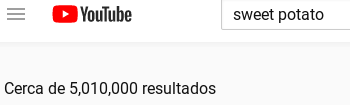
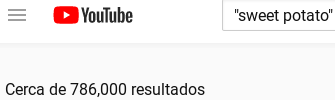
Fix sweet potato bug

diff --git a/falafel_proposal.tex b/falafel_proposal.tex
@@ -73,12 +73,12 @@ North Africa.
 
 Figure \ref{engplot} shows frequencies of various food terms in Google's English-language
 database of user searches.  In this data set, the usage of ``falafel'' is roughly as popular as
-``croissant'', and noticeably more popular than some of the Japanese food emoji
-(see figure).  Figure \ref{engplot} includes ``sweet potato'', which is more popular
+``croissant,'' and noticeably more popular than some of the Japanese food emoji
+(see figure).  Figure \ref{engplot} includes ``sweet potato,'' which is more popular
 in Google's database but clearly seasonal, while Falafel shows consistent usage.
 
 To preserve the scale, ``rice'' was omitted from the plot of English search terms:
-being a basic staple, it was searched on Google 17 times more often than ``falafel''.
+being a basic staple, it was searched on Google 17 times more often than ``falafel.''
 
 \begin{figure}
 \begin{center}
@@ -108,7 +108,7 @@ and English speakers are enamored of croissant photos.
 {\bf English, count} & Bing & Google & YouTube \\\hline
 Falafel  & 6,460 & 25,000 & 301\\
 Rice    & 21,900 & 607,000 & 13,500\\
-Sweet potato & 13,700 & 46,200 & 5,010\\
+Sweet potato & 13,700 & 46,200 & 786\\
 Croissant & 12,100 & 91,800 & 537 \\
 Bento box & 2,160 & 8,760 & 229 \\
 Rice ball & 926 & 1,010 & 154\\
@@ -121,7 +121,7 @@ Rice ball & 926 & 1,010 & 154\\
 
 Falafel  &1.00& 1.00 & 1.00 \\
 Rice    &3.39&24.28 & 44.85 \\
-Sweet potato &2.12& 1.85 & 16.64 \\
+Sweet potato &2.12& 1.85 & 2.61 \\
 Croissant &1.87& 3.67 & 1.78 \\
 Bento box &0.33& 0.35 & 0.76 \\
 Rice ball &0.14& 0.04 & 0.51
@@ -162,8 +162,7 @@ the left, and as a percent of the falafel count to the right.}
 \end{figure}
 
 Figure \ref{counttab} shows the search result counts in three search engines, in English
-and Arabic. Apart from Arabic Google's surprising love of bread and a disproportionate
-number of English-language videos about sweet potatoes, the results here largely
+and Arabic. Apart from Arabic Google's anomalous count for bread, the results largely
 follow those from the trend lines: in English, falafel result counts are behind but
 on the same order of magnitude as sweet potatoes and croissants, while in Arabic, the
 falafel result counts are behind but on the same order of magnitude as rice and bread.
@@ -247,7 +246,10 @@ or even the times of the pharoas.
 into unambiguous representations of a falafel wrap or pita.
 
 \section{Appendix}
-The specifications for emoji proposals require screen shots of searches in several search engines. These are provided here for reference. The counts are transcribed from here to Table \ref{counttab}.
+The specifications for emoji proposals require screen shots of searches in several
+search engines. These are provided here for reference. The counts are transcribed from
+here to Table \ref{counttab}. As per the specification, these searches were done in a
+browser's privacy mode 
 
 \def\ss#1#2#3{\includegraphics[width=#3]{search_shots/#1-#2.png}}
 \def\row#1#2{#1&\ss{b}{#2}{2.5cm}& \ss{g}{#2}{3.4cm}& \ss{y}{#2}{4.5cm}\\\hline}
@@ -278,15 +280,15 @@ The specifications for emoji proposals require screen shots of searches in sever
  & Bing & Google &YouTube\\
 \hline
 %\<ﻑﻼﻔﻟ> 
-\arow{Falafel}
+\arow{falafel}
 %\<ﺃﺭﺯ>
-\arow{Rice}
+\arow{rice}
 %\<ﺦﺑﺯ> 
-\arow{Bread}
+\arow{bread}
 %\<ﻚﺑﺎﺑ> 
-\arow{Kebab}
+\arow{kebab}
 %\<ﻙﺭﻭﺎﺳﻮﻧ> 
-\arow{Croissant}
+\arow{croissant}
 \end{tabular}
 \end{center}
 \caption{Screen shots of Arabic language searches}
